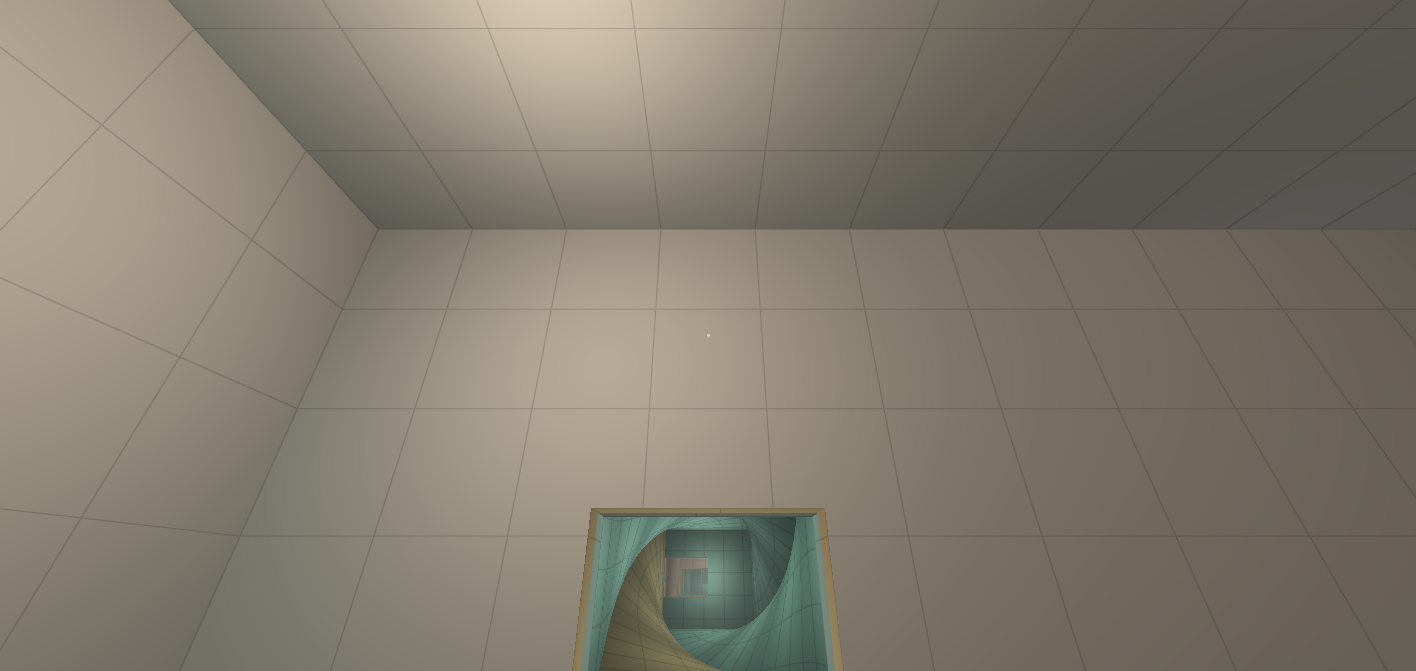
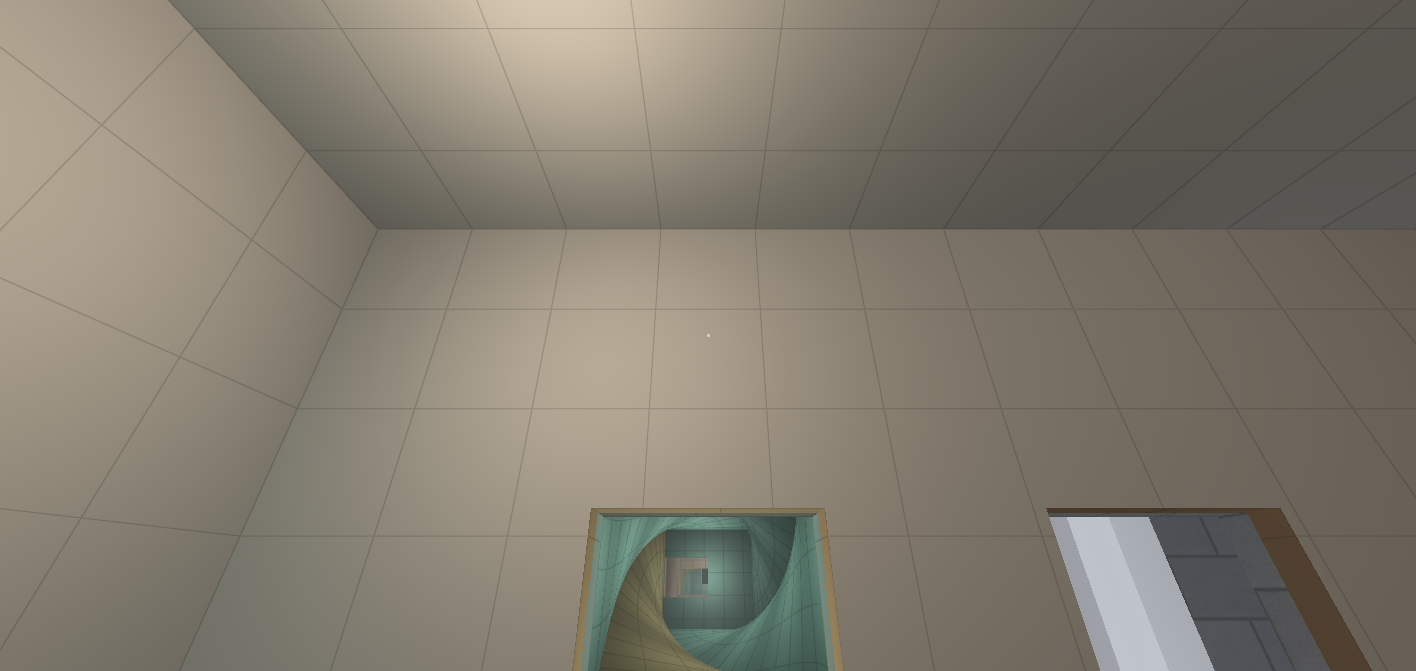
le pont sur le vide
Une neuvième porte dans la rotonde, au milieu de la paroi nord — seule
et centrée, quand les huit autres vont par paires. C'est la seule qui ne
mène pas à une salle mais dehors.

Derrière : une passerelle d'un mètre cinquante sans garde-corps, qui part
d'un belvédère et s'arrête en l'air quarante mètres plus loin. Elle ne
mène nulle part, et c'est le sujet — un pont qui aboutit est un couloir.
Autour, des masses de béton de deux cents mètres qui montent et
descendent hors de vue, et trois plateformes en encorbellement tendues
vers le pont sans jamais l'atteindre : des masses verticales seules ne
disent rien de la hauteur, c'est en voyant passer un plancher qu'on sait
qu'on tombe.

Il fallait décider ce qui arrive à qui tombe. Mourir est exclu, le plan
dit « aucun danger ». Poser un sol vingt mètres plus bas l'est autant :
on verrait le fond, et il n'y aurait plus de vide. Le plancher de la
cellule est donc recollé à son plafond, cent soixante mètres plus haut,
par une translation pure. On tombe, on repasse par le haut, on retombe —
sept secondes par tour. Et comme on garde la maîtrise de son déplacement
en l'air, on se replace au-dessus du belvédère et l'on y atterrit : la
chute est un trajet, pas une punition. Les deux bouches sont aussi des
ouvertures pour le rendu, si bien que le vide n'est pas peint, il est
profond.

C'est pour cela que tout ce qui est vertical est uniforme sur toute sa
hauteur et déborde la boîte de quarante mètres. Une corniche, un
[…]

Changed region(s): [[0.7147, 0.7452, 0.9944, 1.0]]

diff --git a/src/world/world.ts b/src/world/world.ts
@@ -81,6 +81,203 @@ const REVEAL = 0.25
 /** Le nom de la pièce d'accueil, référencé par l'auto-test et les outils. */
 export const HUB = 'rotonde'
 
+/**
+ * **Le pont sur le vide.**
+ *
+ * On pousse une porte de la rotonde et l'on est dehors, sur une passerelle d'un mètre
+ * cinquante **sans garde-corps**, au-dessus d'un vide dont on ne voit pas le fond. Le musée
+ * est au-dessus, en dessous, à gauche, à droite : des masses de béton de deux cents mètres
+ * qui montent et descendent hors de vue. Aucune énigme, aucun objet, rien à faire — c'est le
+ * seul endroit du bâtiment dont la fonction soit de faire s'arrêter le visiteur.
+ *
+ * ## Le vide a un fond, et c'est le ciel
+ *
+ * Il fallait décider ce qui arrive à qui tombe. Mourir est exclu : le plan dit « aucun
+ * danger », et un vertige qui punit devient un obstacle. Poser un sol vingt mètres plus bas
+ * l'est tout autant — on verrait le fond, et il n'y aurait plus de vide.
+ *
+ * La réponse est une **couture horizontale d'un bout à l'autre de la cellule** : le plancher
+ * de la boîte est recollé à son plafond, deux cents mètres plus haut, par une translation
+ * pure. On tombe, on traverse le plan du bas, on réapparaît en haut, et l'on retombe. Six
+ * secondes par tour, à vingt-huit mètres par seconde, l'architecture qui défile. Et comme on
+ * garde la maîtrise de son déplacement en l'air, on peut se replacer au-dessus du belvédère
+ * et **atterrir dessus** : la chute n'est pas une punition, c'est un trajet.
+ *
+ * C'est pour cela que les masses sont **uniformes sur toute leur hauteur** et débordent la
+ * boîte de quarante mètres. Une frise, un bandeau, une corniche, et l'on verrait le raccord
+ * passer. Rien d'horizontal n'existe ici en dehors du niveau du pont — qui est à cent mètres
+ * du plan de couture, donc noyé de brume bien avant qu'on puisse le reconnaître d'en haut.
+ *
+ * Ces deux bouches sont aussi des ouvertures pour le rendu : on voit à travers, donc on voit
+ * la même scène répétée au-dessus et en dessous de soi. Le vide n'est pas peint, il est
+ * profond.
+ */
+const BRIDGE = 'pont'
+const BRIDGE_BOX: Box = {
+  min: { x: 1000, y: -80, z: 1000 },
+  max: { x: 1080, y: 80, z: 1080 },
+}
+/** L'axe de la passerelle, et le niveau de son tablier. */
+const BRIDGE_X = 1040
+const BRIDGE_DECK = 0
+const BRIDGE_TINT: Colour = [0.78, 0.82, 0.88]
+
+/** Les deux bouches de la boucle verticale : le sol de la boîte, et son plafond. */
+function bridgeLoop(): { under: Mouth; over: Mouth } {
+  const half = {
+    halfWidth: (BRIDGE_BOX.max.x - BRIDGE_BOX.min.x) / 2,
+    halfHeight: (BRIDGE_BOX.max.z - BRIDGE_BOX.min.z) / 2,
+  }
+  const centre = {
+    x: (BRIDGE_BOX.min.x + BRIDGE_BOX.max.x) / 2,
+    z: (BRIDGE_BOX.min.z + BRIDGE_BOX.max.z) / 2,
+  }
+  return {
+    // **Sans embrasure, contrairement à toutes les autres bouches du musée.** Une bouche de
+    // porte est posée au fond de son ébrasement, à vingt-cinq centimètres derrière la paroi ;
+    // ici cela décalerait la boucle d'un demi-mètre, et la répétition ne serait plus exacte.
+    // Il n'y a de toute façon aucune épaisseur à traverser : l'ouverture est le ciel.
+    under: {
+      id: 'pont.bas',
+      cell: BRIDGE,
+      center: { x: centre.x, y: BRIDGE_BOX.min.y, z: centre.z },
+      right: { x: 1, y: 0, z: 0 },
+      up: { x: 0, y: 0, z: -1 },
+      normal: { x: 0, y: 1, z: 0 },
+      ...half,
+    },
+    over: {
+      id: 'pont.haut',
+      cell: BRIDGE,
+      center: { x: centre.x, y: BRIDGE_BOX.max.y, z: centre.z },
+      right: { x: -1, y: 0, z: 0 },
+      up: { x: 0, y: 0, z: -1 },
+      normal: { x: 0, y: -1, z: 0 },
+      ...half,
+    },
+  }
+}
+
+/**
+ * La géométrie du dehors : une façade, un belvédère, une passerelle, et des masses.
+ *
+ * Tout ce qui est vertical déborde la boîte de quarante mètres en haut comme en bas, pour
+ * que le raccord de la boucle tombe au milieu d'une surface et non sur une arête.
+ */
+function buildTheBridge(door: Mouth): { verts: number[]; blocks: Block[] } {
+  const out: number[] = []
+  const blocks: Block[] = []
+
+  const concrete = made(tinted(BRIDGE_TINT, 0.38), MATTER.beton)
+  const dark = made(tinted(BRIDGE_TINT, 0.26), MATTER.beton)
+  const worn = made(tinted(BRIDGE_TINT, 0.44), MATTER.pierre)
+  const under = made(tinted(BRIDGE_TINT, 0.2), MATTER.beton)
+
+  const low = BRIDGE_BOX.min.y - 40
+  const high = BRIDGE_BOX.max.y + 40
+
+  // La façade, percée de la porte : c'est le bâtiment qu'on vient de quitter, et il monte
+  // et descend hors de vue comme tout le reste.
+  pushWall(out, {
+    origin: { x: BRIDGE_BOX.min.x, y: low, z: BRIDGE_BOX.min.z },
+    right: { x: BRIDGE_BOX.max.x - BRIDGE_BOX.min.x, y: 0, z: 0 },
+    up: { x: 0, y: high - low, z: 0 },
+    color: concrete,
+    holes: [holeOf(door)],
+  })
+  // Ses contreforts. Sans eux la façade est un aplat, et un aplat n'a pas d'échelle :
+  // c'est le rythme des refends qui dit qu'elle est immense, pas sa taille à l'écran.
+  //
+  // Chaque saillie mord de dix centimètres dans ce sur quoi elle s'applique. Sans cette
+  // morsure, sa face arrière et la surface qui la porte occupent le même plan, et deux
+  // surfaces coplanaires se disputent les pixels dès qu'on les regarde de biais.
+  const BITE = 0.1
+  for (const x of [1006, 1018, 1052, 1064, 1076]) {
+    pushBlock(out, { x, y: low, z: BRIDGE_BOX.min.z - BITE }, { x: x + 3, y: high, z: BRIDGE_BOX.min.z + 2.2 }, { side: dark })
+  }
+  // L'encadrement de la porte : deux jambages et un linteau saillants, pour que l'ouverture
+  // se lise de loin comme une porte et non comme un trou.
+  //
+  // Le linteau **repose** sur les jambages au lieu de les recouvrir, et il est un peu plus
+  // large et un peu moins saillant qu'eux. C'est la manière propre de faire buter deux
+  // volumes : deux faces qui se touchent dos à dos ne se voient jamais toutes les deux,
+  // tandis que deux faces qui se recouvrent en regardant du même côté se disputent les
+  // pixels.
+  const lintel = BRIDGE_DECK + 2.6
+  for (const side of [-1, 1]) {
+    pushBlock(
+      out,
+      { x: BRIDGE_X + side * 1.2, y: BRIDGE_DECK - 0.8, z: BRIDGE_BOX.min.z - BITE },
+      { x: BRIDGE_X + side * 2.1, y: lintel, z: BRIDGE_BOX.min.z + 1 },
+      { side: worn, top: worn },
+    )
+  }
+  pushBlock(
+    out,
+    { x: BRIDGE_X - 2.4, y: lintel, z: BRIDGE_BOX.min.z - BITE * 2 },
+    { x: BRIDGE_X + 2.4, y: lintel + 0.8, z: BRIDGE_BOX.min.z + 0.9 },
+    { side: worn, top: worn },
+  )
+
+  // Le belvédère : le seul endroit large du dehors, et la cible qu'on vise en tombant.
+  const terrace = {
+    min: { x: BRIDGE_X - 4, y: BRIDGE_DECK - 1.4, z: BRIDGE_BOX.min.z },
+    max: { x: BRIDGE_X + 4, y: BRIDGE_DECK, z: BRIDGE_BOX.min.z + 7 },
+  }
+  pushBlock(out, terrace.min, terrace.max, { side: under, top: worn })
+  blocks.push(terrace)
+
+  // La passerelle. Un mètre cinquante, sans garde-corps, et elle **s'arrête en l'air** :
+  // elle ne mène nulle part, et c'est le sujet. Un pont qui aboutit est un couloir.
+  const deck = {
+    min: { x: BRIDGE_X - 0.75, y: BRIDGE_DECK - 0.9, z: terrace.max.z },
+    max: { x: BRIDGE_X + 0.75, y: BRIDGE_DECK, z: 1046 },
+  }
+  pushBlock(out, deck.min, deck.max, { side: under, top: worn })
+  blocks.push(deck)
+  // Les consoles sous le tablier : on les voit en se penchant, et elles donnent le pas.
+  for (let z = terrace.max.z + 3; z < deck.max.z - 1; z += 6) {
+    pushBlock(out, { x: BRIDGE_X - 1.3, y: BRIDGE_DECK - 1.9, z }, { x: BRIDGE_X + 1.3, y: BRIDGE_DECK - 0.9 + BITE, z: z + 1.2 }, { side: dark, top: dark })
+  }
+
+  // Les masses. Elles n'ont ni sommet ni pied visibles ; leur seule fonction est de donner
+  // au vide trois dimensions, et à la chute quelque chose à faire défiler.
+  const masses: [number, number, number, number][] = [
+    [1008, 1014, 1022, 1032],
+    [1056, 1074, 1010, 1022],
+    [1002, 1013, 1042, 1058],
+    [1060, 1078, 1046, 1060],
+    [1022, 1058, 1066, 1080],
+    [1020, 1030, 1028, 1038],
+  ]
+  for (const [x0, x1, z0, z1] of masses) {
+    pushBlock(out, { x: x0, y: low, z: z0 }, { x: x1, y: high, z: z1 }, { side: concrete })
+    blocks.push({ min: { x: x0, y: low, z: z0 }, max: { x: x1, y: high, z: z1 } })
+    // Un refend vertical sur la face tournée vers le pont, pour la même raison qu'en façade.
+    const rib = (x0 + x1) / 2
+    pushBlock(out, { x: rib - 1.2, y: low, z: z0 - 0.9 }, { x: rib + 1.2, y: high, z: z0 + BITE }, { side: dark })
+  }
+
+  // Trois plateformes en encorbellement, tendues vers le pont sans jamais l'atteindre.
+  //
+  // Elles ne servent qu'à une chose : donner un **haut** et un **bas** au vide. Des masses
+  // verticales seules ne disent rien de la hauteur — c'est en voyant passer un plancher qu'on
+  // sait qu'on tombe. Elles restent près du niveau du pont, à soixante-dix mètres du plan de
+  // la boucle, donc noyées de brume bien avant qu'on puisse les reconnaître d'en haut et
+  // s'apercevoir que le vide se répète.
+  const ledges: [number, number, number, number, number][] = [
+    [1030, 1038, 1026, 1040, 9.5],
+    [1046, 1056, 1016, 1030, -7.5],
+    [1028, 1036, 1046, 1058, -18],
+  ]
+  for (const [x0, x1, z0, z1, y] of ledges) {
+    pushBlock(out, { x: x0, y, z: z0 }, { x: x1, y: y + 1.4, z: z1 }, { side: dark, top: worn })
+    blocks.push({ min: { x: x0, y, z: z0 }, max: { x: x1, y: y + 1.4, z: z1 } })
+  }
+
+  return { verts: out, blocks }
+}
+
 type Wall = 'north' | 'south' | 'east' | 'west'
 
 interface Box {
@@ -1699,6 +1896,10 @@ export interface Landmarks {
   pavedCell: string
   pavedPos: Vec3
   pavedForward: Vec3
+  /** Sur la passerelle, à mi-longueur, le regard vers le bout qui n'aboutit pas. */
+  bridgeCell: string
+  bridgePos: Vec3
+  bridgeForward: Vec3
   cryptCell: string
   cryptPos: Vec3
   cryptForward: Vec3
@@ -1789,6 +1990,12 @@ export function buildWorld(): World {
     LOOP_BACK.hubLateral,
   )
   hubMouths.push({ mouth: loopHubMouth, wall: LOOP_BACK.hubWall })
+
+  // **La neuvième porte, au milieu de la paroi nord.** Les huit autres vont par paires de
+  // part et d'autre de chaque mur ; celle-ci est seule et centrée, et c'est voulu — c'est la
+  // seule qui ne mène pas à une salle mais **dehors**.
+  const bridgeHubMouth = mouth(HUB, `${HUB}.vers-pont`, HUB_BOX, 'north', 0)
+  hubMouths.push({ mouth: bridgeHubMouth, wall: 'north' })
 
   const hubTint: Colour = [1, 0.88, 0.72]
   const hubLighting: CellLighting = {
@@ -1994,6 +2201,37 @@ export function buildWorld(): World {
   )
   wingPassages.get(MOBILE_WING)!.push(intoConduit)
   mobileWing.holes.ceiling = [holeOf(lower.under)]
+
+  // **Le pont.** Deux coutures : la porte, et la boucle verticale qui recolle le plancher de
+  // la cellule à son plafond. La seconde a ses deux bouches dans la même cellule — l'espace
+  // cousu relie des bouches, pas des pièces — et ne transmet donc aucune lumière.
+  const bridgeDoor = mouth(BRIDGE, 'pont.porte', BRIDGE_BOX, 'north', BRIDGE_X, BRIDGE_DECK)
+  const bridgeLighting: CellLighting = {
+    // **Dehors, la lumière vient de partout.** Un ambiant fort et froid plutôt que des
+    // lampes : il n'y a pas de plafonnier au-dessus d'un vide, et une source ponctuelle à
+    // deux cents mètres ne modèle rien. Les quatre foyers ci-dessous ne servent qu'à
+    // détacher le proche du lointain, au niveau du pont.
+    // Sombre de près, blanc de loin. C'est l'inverse d'un intérieur, et c'est ce qui donne
+    // les silhouettes : le béton proche reste mat, et la brume l'efface en l'éclaircissant.
+    ambient: [0.13, 0.14, 0.16],
+    lights: [-24, 24].flatMap((dz) =>
+      [-26, 26].map((dx) => ({
+        position: { x: BRIDGE_X + dx, y: BRIDGE_DECK + 26, z: BRIDGE_BOX.min.z + 30 + dz },
+        colour: BRIDGE_TINT,
+        intensity: 60,
+        radius: 70,
+      })),
+    ),
+  }
+  const loop = bridgeLoop()
+  const [hubToBridge, bridgeToHub] = makePassages(
+    bridgeHubMouth,
+    hubLighting,
+    bridgeDoor,
+    bridgeLighting,
+  )
+  const [fallOut, fallIn] = makePassages(loop.under, bridgeLighting, loop.over, bridgeLighting)
+  hubPassages.push(hubToBridge)
 
   const chestWing = wingData.find((entry) => entry.wing.id === RELIQUARY_WING)!
   const [intoChest, outOfChest] = makePassages(
@@ -2264,6 +2502,29 @@ export function buildWorld(): World {
     })
   }
 
+  {
+    const bridge = buildTheBridge(bridgeDoor)
+    pushReveal(bridge.verts, bridgeDoor, made(tinted(BRIDGE_TINT, 0.3), MATTER.pierre), false)
+
+    cells.push({
+      id: BRIDGE,
+      // Un lointain **plus clair** que tout ce qu'il termine, et c'est ce qui fait le vide :
+      // l'air éloigne les choses en les éclaircissant, et une brume plus sombre que le béton
+      // se lirait comme un fond peint.
+      fogColour: [0.74, 0.78, 0.84],
+      // Un horizon à une petite centaine de mètres. Plus loin, on verrait le sommet des
+      // masses et le plan de la boucle ; plus près, les masses cessent d'être des masses et
+      // le dehors n'est plus qu'un brouillard avec une planche dedans.
+      fog: 0.018,
+      min: BRIDGE_BOX.min,
+      max: BRIDGE_BOX.max,
+      verts: new Float32Array(bridge.verts),
+      passages: [bridgeToHub, fallOut, fallIn],
+      lighting: bridgeLighting,
+      blocks: bridge.blocks,
+    })
+  }
+
   // Vérification silencieuse mais utile : un repère de bouche doit être direct, sinon la
   // transformation retourne l'image sans que rien ne le signale.
   for (const cell of cells) {
@@ -2349,6 +2610,11 @@ export function buildWorld(): World {
     pavedCell: PAVE_WING,
     pavedPos: { x: PAVE_BOX.min.x + 1.2, y: PAVE_BOX.min.y + 1.65, z: PAVE_BOX.max.z - 1 },
     pavedForward: { x: 0, y: 0, z: -1 },
+    // Le dehors. Ce point de vue ne teste aucune couture : il teste une échelle, et c'est
+    // la seule image du lot dont le sujet soit le vide.
+    bridgeCell: BRIDGE,
+    bridgePos: { x: BRIDGE_X, y: BRIDGE_DECK + 1.65, z: 1022 },
+    bridgeForward: { x: 0.12, y: -0.08, z: 1 },
     wings: WINGS.map((w) => ({ id: w.id, purpose: w.purpose })),
   }
 

diff --git a/src/dev/selftest.ts b/src/dev/selftest.ts
@@ -1536,6 +1536,74 @@ export function runSelfTest(world: World, physics: Physics): Check[] {
     )
   }
 
+  // 18 bis. Le pont sur le vide.
+  //
+  //    **La passerelle porte.** Un mètre cinquante sans garde-corps : on doit pouvoir la
+  //    parcourir jusqu'au bout en marchant droit, et n'en tomber qu'en s'en écartant. Une
+  //    passerelle dont on tombe en marchant droit ne serait pas un vertige mais un défaut.
+  //
+  //    **On en tombe, et le vide reboucle.** C'est la réponse à « que se passe-t-il si je
+  //    saute ? », et elle ne peut être ni la mort — le plan dit « aucun danger » — ni un sol
+  //    vingt mètres plus bas, qui supprimerait le vide. Le plancher de la cellule est recollé
+  //    à son plafond : on tombe, on repasse par le haut, et l'on retombe.
+  //
+  //    **Et la chute n'est pas une punition.** On garde la maîtrise de son déplacement en
+  //    l'air : en se replaçant au-dessus du belvédère pendant la descente, on y atterrit. Un
+  //    tour suffit. C'est ce qui fait de la chute un trajet plutôt qu'un piège.
+  {
+    const marks = getLandmarks()
+    const outside = world.cells.get(marks.bridgeCell)
+
+    if (!outside) {
+      add_('pont · la cellule existe', false, `cellule inconnue : ${marks.bridgeCell}`)
+    } else {
+      // Le long de la passerelle, droit devant.
+      const walker = new Player()
+      walker.goTo({ name: 'pont', cell: outside.id, pos: { ...marks.bridgePos }, forward: v3(0, 0, 1) }, world)
+      let lowest = walker.pos.y
+      // Cinq secondes, soit dix-sept mètres : de quoi couvrir la portée restante sans
+      // atteindre le bout, qui est en l'air et dont on doit tomber.
+      for (let i = 0; i < 300; i++) {
+        walker.update(1 / 60, world, new Set(['KeyW']))
+        lowest = Math.min(lowest, walker.pos.y)
+      }
+      add_(
+        'pont · la passerelle porte',
+        walker.grounded && lowest > marks.bridgePos.y - 0.5,
+        `descendu à ${fmt(lowest)} m, ${walker.grounded ? 'posé' : 'en l’air'}`,
+      )
+
+      // Puis on s'en écarte, et l'on vise le belvédère en tombant.
+      const faller = new Player()
+      faller.goTo({ name: 'pont', cell: outside.id, pos: { ...marks.bridgePos }, forward: v3(1, 0, 0) }, world)
+      const landing = { x: marks.bridgePos.x, z: outside.min.z + 3 }
+      let loops = 0
+      let steps = 0
+      for (let i = 0; i < 3000; i++) {
+        if (faller.grounded && loops === 0 && faller.pos.y > 0) faller.face(v3(1, 0, 0))
+        else faller.face(v3(landing.x - faller.pos.x, 0, landing.z - faller.pos.z))
+        const before = faller.pos.y
+        faller.update(1 / 60, world, new Set(['KeyW']))
+        // Un bond de cent mètres vers le haut n'arrive que d'une façon : par la couture.
+        if (faller.pos.y > before + 100) loops++
+        steps = i
+        if (loops > 0 && faller.grounded) break
+      }
+      add_(
+        'pont · le vide reboucle',
+        loops >= 1,
+        loops >= 1 ? `${loops} tour(s) de chute` : 'jamais repassé par le haut',
+      )
+      add_(
+        'pont · la chute n’est pas une punition',
+        loops >= 1 && faller.grounded,
+        faller.grounded
+          ? `reposé après ${(steps / 60).toFixed(1)} s à ${fmt(faller.pos.y)} m`
+          : 'toujours en chute au bout de cinquante secondes',
+      )
+    }
+  }
+
   // 19. Aucune cellule ne dépasse le budget de lampes du nuanceur.
   //
   //    Le dépassement est **silencieux** : le rendu prend les premières et laisse tomber le

diff --git a/src/player/player.ts b/src/player/player.ts
@@ -174,6 +174,16 @@ export function presets(): Preset[] {
       pos: marks.pavedPos,
       forward: marks.pavedForward,
     },
+    // Le pont sur le vide. Ce point de vue ne teste aucune couture : il teste une échelle.
+    // Une passerelle d'un mètre cinquante sans garde-corps, des masses qui montent et
+    // descendent hors de vue, et rien en dessous — si l'image ne donne pas le vertige, c'est
+    // que le brouillard ou l'éclairage sont à revoir, pas la géométrie.
+    {
+      name: 'Le pont sur le vide',
+      cell: marks.bridgeCell,
+      pos: marks.bridgePos,
+      forward: marks.bridgeForward,
+    },
     // La planche d'essais de la salle basse. Ce point de vue ne teste aucune géométrie : il
     // montre les scènes en L, numérotées, où l'on essaie les matières et le mobilier avant
     // d'en habiller le musée.
